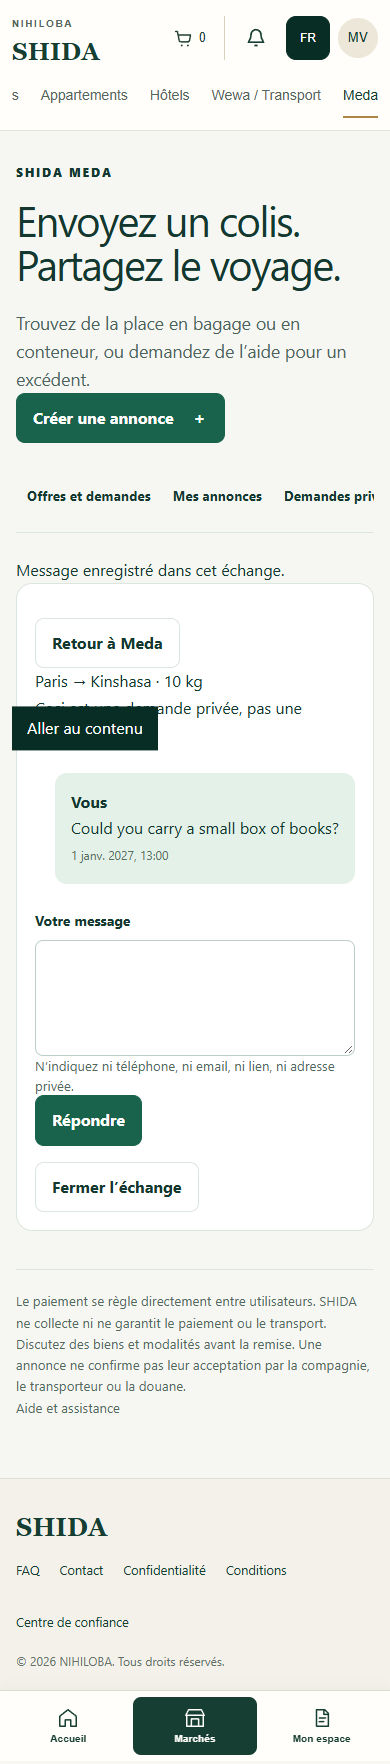
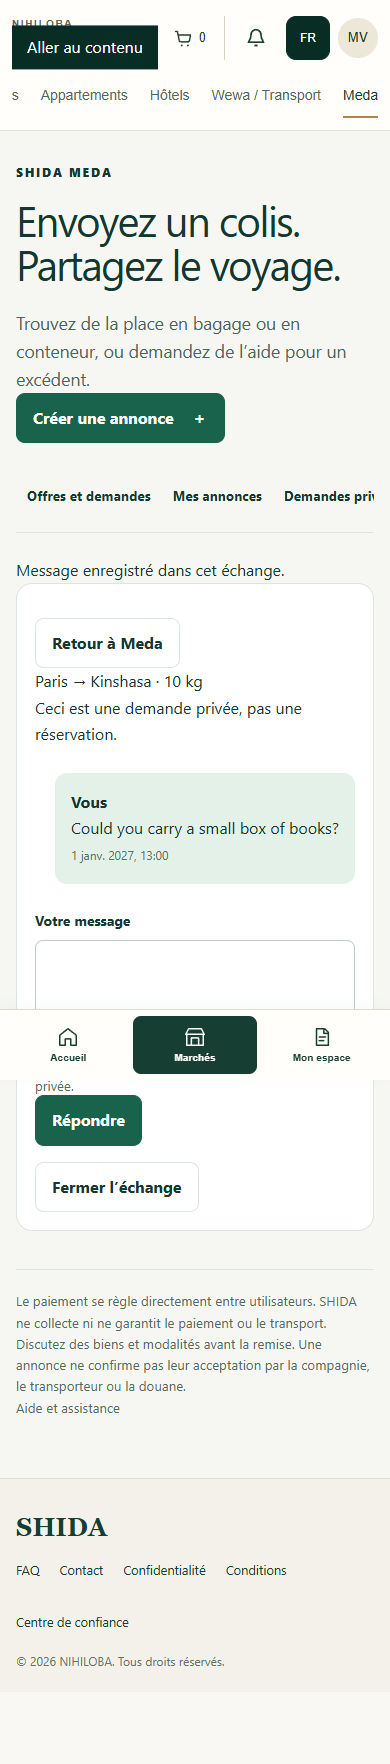
Record Meda validation against patched production dependencies

diff --git a/tests/browser/meda.browser.ts b/tests/browser/meda.browser.ts
@@ -26,7 +26,7 @@ for(const locale of ['en','fr','ln','sw'] as const)for(const width of [390,1440]
  await page.getByRole('button',{name:t.send,exact:true}).click();await expect(page.getByText(t.persisted,{exact:true})).toBeVisible();
  expect(writes.at(-1)?.body.body).toBe('Could you carry a small box of books?');
  expect(await page.evaluate(()=>document.documentElement.scrollWidth<=innerWidth)).toBe(true);
- if(locale==='fr'){mkdirSync('docs/evidence/meda',{recursive:true});await page.screenshot({path:`docs/evidence/meda/enquiry-${width}.png`,fullPage:true});}
+ if(locale==='fr'){mkdirSync('docs/evidence/meda',{recursive:true});await page.evaluate(()=>window.scrollTo({top:0,behavior:'instant'}));await page.screenshot({path:`docs/evidence/meda/enquiry-${width}.png`,fullPage:true});}
 });
 test('private draft requires explicit publication',async({page})=>{
  const writes=await fixtures(page);const t=medaCopy.en;await page.goto('/shida/meda/');

diff --git a/docs/meda_first_batch.md b/docs/meda_first_batch.md
@@ -30,20 +30,21 @@ global inbox aggregation and Organization management are deferred.
 
 ## Validation
 
-- 1,087 website unit tests across 151 files pass, including 11 new gateway/copy
-  checks. Typecheck and lint pass with the existing Node 24.22.1 runtime.
-- Production Webpack build passes using `npm run build -- --webpack` with an
-  isolated synthetic API target and no dotenv files.
-- Default Turbopack build could not resolve Next through the reused dependency
-  junction outside the worktree. This is an environment limitation; CI retains
-  the normal build command with its own installed dependencies.
+- Final validation: 1,088 website unit tests across 151 files pass, including
+  11 new gateway/copy checks. Typecheck and lint pass with Node 24.22.1;
+  lint reports 41 existing warnings and no errors.
+- After merging current main, including assistance and the Next.js 16.4.6 security
+  patch, the normal production Turbopack build passes in a disposable source copy
+  with matching patched dependencies, a synthetic API target and no dotenv files.
+  Initial dependency-junction resolution limits were confined to the first local
+  checkout; the final validation uses a physical dependency copy.
 - Ten production-build Playwright checks pass: discovery/private enquiry in four
   languages at 390px and 1440px, explicit draft publication, and anonymous access.
   Browser HTTP responses are synthetic fixtures, not live backend acceptance.
 - [Mobile enquiry](evidence/meda/enquiry-390.png) and
   [desktop enquiry](evidence/meda/enquiry-1440.png) are synthetic visual evidence.
-- Next tooling flagged an advisory for the existing 16.4.3 dependency. This batch
-  does not modify dependencies or claim to resolve that pre-existing advisory.
+- The upstream [Next.js security patch](next-security-20261117.md) is preserved;
+  Meda introduces no additional dependency changes.
 
 ## Release dependency
 
@@ -53,6 +54,7 @@ has not been requested. Backend deployment runs migrations and needs explicit
 production database authorization. No new env variable, secret, dependency,
 worker, cron or external message delivery is introduced.
 
-Reusable dependencies remain linked to the existing
-`support-assistance-web-release-20261117/node_modules`. The task's source,
-build and visual evidence are retained in `C:/NIHILOBA/meda-website`.
+The original checkout's dependency junction is preserved. Final patched validation
+uses `C:/Users/mabal/AppData/Local/Temp/shida-meda-final-lrezq0u1`; it must not be
+confused with the earlier dependency installation. Source and visual evidence are
+retained in `C:/NIHILOBA/meda-website`.
